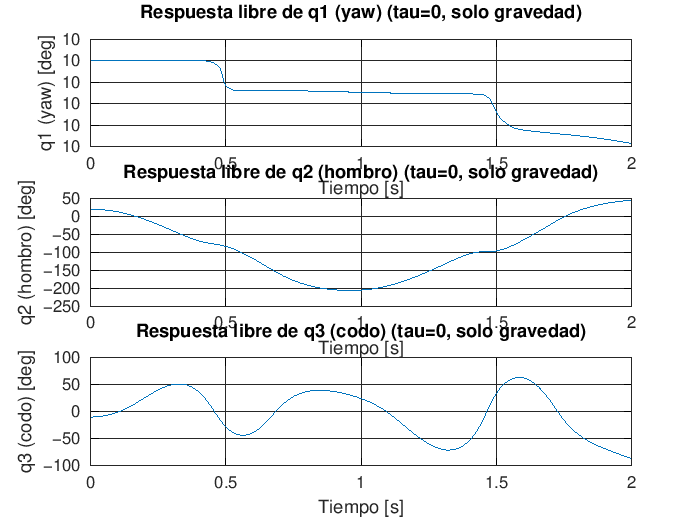
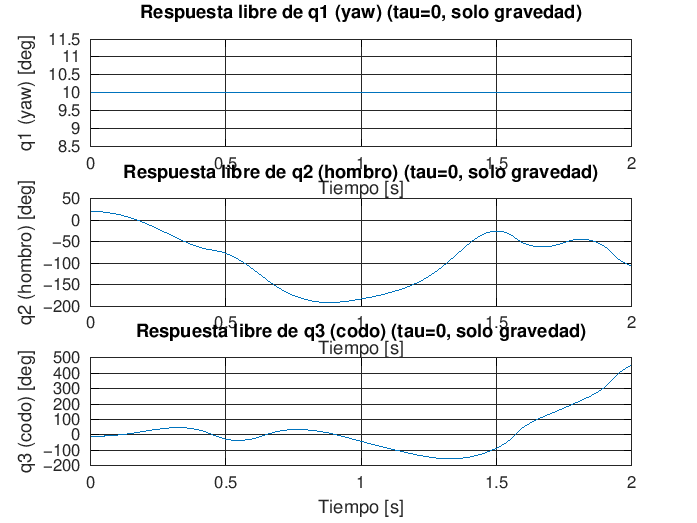
Maestria en IA - Trabajo Final Robotica - Seccion B - Grupo 2

diff --git a/01_codigo_final/robot3dof_TFinal_v2_dinamica_jacobianos.m b/01_codigo_final/robot3dof_TFinal_v2_dinamica_jacobianos.m
@@ -36,22 +36,30 @@
 % [P1] Paper, Pag. 5, Seccion 3: manipulador industrial de tres eslabones
 %      con tres juntas revolutas.
 % [P2] Paper, Pag. 6, Seccion 3.1 y Tabla 1: parametros DH del robot.
-% [P5] Paper, Pag. 8, Tabla 2: L1=0.15 m, L2=0.50 m, L3=0.50 m.
+% [P5] Paper, Pag. 8, Tabla 2 "List of parameters of robot manipulator":
+%      L1=0.15 m, L2=0.50 m, L3=0.50 m, m1=0.50 kg, m2=0.50 kg,
+%      m3=0.50 kg, g=9.81 m/s^2. TODOS estos siete valores son datos
+%      reportados explicitamente por el paper, no supuestos.
 %
 % -------------------------------------------------------------------------
-% SUPUESTOS FISICOS (el paper base NO reporta masas, centros de masa ni
-% inercias completas; todo lo declarado abajo es un supuesto de simulacion
-% que debe confirmarse con el docente, ver preguntas pendientes al final):
+% SUPUESTOS FISICOS
 %
-% 1) Masas por eslabon (m1, m2, m3): valores asumidos, del orden de un
-%    manipulador de mesa pequeno (kg). No provienen del paper.
+% La Tabla 2 del paper (Pag. 8, [P5]) reporta longitudes, masas y gravedad
+% de los tres eslabones (L1,L2,L3,m1,m2,m3,g). Esos siete valores se toman
+% tal cual del paper, no son supuestos.
 %
-% 2) Centros de masa (lc1, lc2, lc3): se asume que cada eslabon es
+% El paper NO reporta, en cambio, la posicion exacta del centro de masa de
+% cada eslabon ni el tensor de inercia completo (solo aparecen simbolos
+% genericos como lc2, lc3, r1 dentro de las ecuaciones de Lagrange (10)-
+% (12), sin valores numericos en la Tabla 2). Por eso, lo siguiente SI son
+% supuestos de simulacion, declarados y justificados:
+%
+% 1) Centros de masa (lc1, lc2, lc3): se asume que cada eslabon es
 %    aproximadamente uniforme, por lo que su centro de masa esta a la
 %    mitad de su longitud (lc_i = L_i/2). pc1 se ubica sobre el eje de la
 %    columna base (ver deduccion geometrica en la Seccion 3).
 %
-% 3) Tensores de inercia (I1, I2, I3): cada eslabon se aproxima como una
+% 2) Tensores de inercia (I1, I2, I3): cada eslabon se aproxima como una
 %    VARILLA DELGADA UNIFORME (momento axial ~0, momentos transversales
 %    m*L^2/12), expresados en la base ortonormal del propio marco DH del
 %    eslabon (frame i), tal como exige la formula
@@ -63,11 +71,9 @@
 %    evitar singularidades numericas; fisicamente equivale a "varilla
 %    delgada ideal".
 %
-% 4) La gravedad robot.g = 9.81 m/s^2 (estandar).
-%
-% Estas asunciones deben declararse explicitamente en el informe como
-% "supuestos de simulacion", diferenciandolas de los parametros
-% geometricos L1,L2,L3 que si provienen del paper base.
+% Estos dos supuestos (centros de masa e inercia detallada) deben
+% declararse explicitamente en el informe, diferenciandolos de L1,L2,L3,
+% m1,m2,m3,g, que si provienen directamente de la Tabla 2 del paper base.
 % -------------------------------------------------------------------------
 
 clc; clear; close all;
@@ -76,9 +82,10 @@ clc; clear; close all;
 % 1. PARAMETROS GEOMETRICOS Y FISICOS DEL ROBOT
 % Objetivo: centralizar en robot.* toda constante geometrica/fisica usada
 %           por la cinematica y la dinamica.
-% Fuente/justificacion: geometria L1,L2,L3 tomada del paper base [P5].
-%           Masas, centros de masa e inercias son supuestos de simulacion
-%           documentados arriba (el paper no los reporta completos).
+% Fuente/justificacion: L1,L2,L3,m1,m2,m3,g tomados de la Tabla 2 del paper
+%           base [P5] (dato reportado, no supuesto). Centros de masa e
+%           inercias son supuestos de simulacion documentados arriba (el
+%           paper no reporta sus valores numericos).
 % Resultado esperado: estructura "robot" lista para toda la derivacion
 %           dinamica de este archivo.
 %% ================================================================
@@ -86,18 +93,19 @@ robot.L1 = 0.15;        % altura/base [m]                          [P5]
 robot.L2 = 0.50;        % longitud eslabon 2 [m]                   [P5]
 robot.L3 = 0.50;        % longitud eslabon 3 [m]                   [P5]
 
-% Supuesto para simulacion: el paper base no reporta masa/inercia completa.
-robot.m1 = 2.00;        % masa eslabon 1 (columna base) [kg]
-robot.m2 = 1.50;        % masa eslabon 2 [kg]
-robot.m3 = 1.00;        % masa eslabon 3 [kg]
+% Dato del paper (Tabla 2, Pag. 8, [P5]): "Mass of link 1/2/3" = 0.5 kg cada uno.
+robot.m1 = 0.50;        % masa eslabon 1 (columna base) [kg]       [P5]
+robot.m2 = 0.50;        % masa eslabon 2 [kg]                      [P5]
+robot.m3 = 0.50;        % masa eslabon 3 [kg]                      [P5]
 
+% Supuesto de simulacion: el paper no reporta el valor numerico de lc_i.
 robot.lc1 = robot.L1/2; % centro de masa eslabon 1 [m]
 robot.lc2 = robot.L2/2; % centro de masa eslabon 2 [m]
 robot.lc3 = robot.L3/2; % centro de masa eslabon 3 [m]
 
-robot.g  = 9.81;        % gravedad [m/s^2]
+robot.g  = 9.81;        % gravedad [m/s^2]                         [P5]
 
-% Tensores de inercia por eslabon (varilla delgada, ver supuesto 3 arriba).
+% Tensores de inercia por eslabon (varilla delgada, ver supuesto 2 arriba).
 % Expresados en el marco local i: eje 1 = axial (a lo largo del eslabon),
 % ejes 2,3 = transversales (m*L^2/12). Para el eslabon 1, el eje AXIAL
 % corresponde al eje local 2 (y1), no al eje local 1, porque la torsion
@@ -112,7 +120,7 @@ fprintf('============================================================\n');
 fprintf(' ROBOT ANTROPOMORFICO 3GDL - v2: DINAMICA POR JACOBIANOS\n');
 fprintf('============================================================\n');
 fprintf('Geometria (paper base): L1=%.2f m, L2=%.2f m, L3=%.2f m\n', robot.L1, robot.L2, robot.L3);
-fprintf('Masas asumidas: m1=%.2f, m2=%.2f, m3=%.2f kg\n', robot.m1, robot.m2, robot.m3);
+fprintf('Masas (Tabla 2 del paper): m1=%.2f, m2=%.2f, m3=%.2f kg\n', robot.m1, robot.m2, robot.m3);
 fprintf('Metodo dinamico: Jacobianos lineales/angulares + Christoffel (NO Lagrange).\n\n');
 
 %% ================================================================

diff --git a/01_codigo_final/crear_modelo_simulink_robot3gdl.m b/01_codigo_final/crear_modelo_simulink_robot3gdl.m
@@ -43,13 +43,14 @@ model_name = 'Robot3GDL_Control_Final';
 %% ================================================================
 % 1. PARAMETROS DEL ROBOT (identicos a v2_dinamica_jacobianos.m)
 % Objetivo: tener robot.* disponible de forma independiente en este script.
-% Fuente/justificacion: mismos supuestos fisicos documentados en
-%           robot3dof_TFinal_v2_dinamica_jacobianos.m (varilla delgada,
-%           masas asumidas, geometria del paper base).
+% Fuente/justificacion: L1,L2,L3,m1,m2,m3,g identicos a la Tabla 2 del
+%           paper base (dato reportado); centros de masa e inercias son
+%           supuestos de simulacion, documentados en
+%           robot3dof_TFinal_v2_dinamica_jacobianos.m (varilla delgada).
 % Resultado esperado: estructura "robot" identica a la de v2.
 %% ================================================================
 robot.L1 = 0.15; robot.L2 = 0.50; robot.L3 = 0.50;
-robot.m1 = 2.00; robot.m2 = 1.50; robot.m3 = 1.00;
+robot.m1 = 0.50; robot.m2 = 0.50; robot.m3 = 0.50;
 robot.lc1 = robot.L1/2; robot.lc2 = robot.L2/2; robot.lc3 = robot.L3/2;
 robot.g = 9.81;
 
@@ -140,7 +141,7 @@ if ~exist(blocks_dir, 'dir')
 end
 
 write_mlfb_planta(blocks_dir, robot);
-write_mlfb_pid_nolineal(blocks_dir);
+write_mlfb_pid_nolineal(blocks_dir, robot);
 write_mlfb_pd_precomp(blocks_dir, robot);
 write_mlfb_par_calculado(blocks_dir, robot);
 
@@ -205,7 +206,7 @@ function write_mlfb_planta(blocks_dir, robot)
     fclose(fid);
 end
 
-function write_mlfb_pid_nolineal(blocks_dir)
+function write_mlfb_pid_nolineal(blocks_dir, robot)
     fid = fopen(fullfile(blocks_dir, 'mlfb_pid_nolineal.m'), 'w');
     fprintf(fid, '%s\n', '%% BLOQUE MATLAB FUNCTION: Control PID no lineal');
     fprintf(fid, '%s\n', '% Entrada : q, qdot, qd, qd_dot, eint (todos 3x1), Kp,Kd,Ki (3x3 diag)');
@@ -214,7 +215,8 @@ function write_mlfb_pid_nolineal(blocks_dir)
     fprintf(fid, '%s\n\n', '% Simulink ANTES de este bloque, no dentro de el (ver guia).');
     fprintf(fid, 'function tau = mlfb_pid_nolineal(q, qdot, qd, qd_dot, eint, Kp, Kd, Ki)\n');
     fprintf(fid, '    %% Parametros de gravedad (identicos a robot3dof_TFinal_v2_dinamica_jacobianos.m)\n');
-    fprintf(fid, '    L2 = 0.50; lc2 = 0.25; lc3 = 0.25; m2 = 1.50; m3 = 1.00; g = 9.81;\n');
+    fprintf(fid, '    L2 = %.6g; lc2 = %.6g; lc3 = %.6g; m2 = %.6g; m3 = %.6g; g = %.6g;\n', ...
+        robot.L2, robot.lc2, robot.lc3, robot.m2, robot.m3, robot.g);
     fprintf(fid, '    e = qd - q;\n');
     fprintf(fid, '    edot = qd_dot - qdot;\n');
     fprintf(fid, '    q2 = q(2); q3 = q(3);\n');

diff --git a/README.md b/README.md
@@ -62,46 +62,56 @@ G(q)      = d/dq [ Σ_i m_i · g · pc_i,z(q) ]
 Ambas implementaciones coinciden con un error del orden de `1e-10` en el
 punto de prueba de la Sección 2.3.
 
-### 2.2. Supuestos físicos
+### 2.2. Parámetros del paper y supuestos físicos
 
-El paper base no reporta masas, centros de masa ni inercias completas.
-Los valores asumidos se documentan en el encabezado del archivo:
+La Tabla 2 del paper base (pág. 8, "List of parameters of robot manipulator")
+reporta explícitamente longitudes, masas y gravedad:
+
+| Parámetro | Valor | Fuente |
+|---|---|---|
+| `L1, L2, L3` | 0.15, 0.50, 0.50 m | Tabla 2 del paper (dato reportado) |
+| `m1, m2, m3` | 0.50, 0.50, 0.50 kg | Tabla 2 del paper (dato reportado) |
+| `g` | 9.81 m/s² | Tabla 2 del paper (dato reportado) |
+
+El paper no reporta el valor numérico del centro de masa ni el tensor de
+inercia completo de cada eslabón (solo aparecen símbolos genéricos como
+`lc2`, `lc3`, `r1` dentro de las ecuaciones de Lagrange (10)-(12), sin
+valores en la Tabla 2). Estos dos parámetros sí son supuestos de
+simulación, documentados en el encabezado del archivo:
 
 | Parámetro | Valor asumido | Justificación |
 |---|---|---|
-| `m1, m2, m3` | 2.00, 1.50, 1.00 kg | Orden de magnitud típico de un manipulador de mesa |
 | `lc1, lc2, lc3` | `L_i / 2` | Eslabón uniforme → centro de masa a mitad de longitud |
 | `I1, I2, I3` | Varilla delgada (`m·L²/12` transversal, ~0 axial) | Aproximación estándar para eslabones esbeltos; el eje "axial" de cada tensor se dedujo de la geometría DH (no arbitrario, ver comentarios en el código) |
-| `g` | 9.81 m/s² | Estándar |
 
-Estos supuestos corresponden a las preguntas 1 y 2 de la Sección 6.
+Estos dos supuestos corresponden a la pregunta 1 de la Sección 6.
 
 ### 2.3. Resultados de validación numérica
 
 Punto de prueba: `q = [30°, 40°, −25°]`, `qdot = [5°, −3°, 4°]/s`.
 
-**M(q)** — simétrica, autovalores `[0.0248, 0.4829, 0.7435]` (definida positiva):
+**M(q)** — simétrica, autovalores `[0.0106, 0.2293, 0.3527]` (definida positiva):
 
 ```text
- 0.4829   0.0000   0.0000
- 0.0000   0.6849   0.1966
- 0.0000   0.1966   0.0833
+ 0.2293   0.0000   0.0000
+ 0.0000   0.3216   0.0983
+ 0.0000   0.0983   0.0417
 ```
 
 **C(q,qdot):**
 
 ```text
- 0.0129  -0.0269  -0.0040
- 0.0269   0.0037   0.0009
- 0.0040   0.0028   0.0000
+ 0.0059  -0.0125  -0.0020
+ 0.0125   0.0018   0.0005
+ 0.0020   0.0014   0.0000
 ```
 
 **G(q)** — `G1 = 0` exactamente (el giro de base no cambia energía potencial):
 
 ```text
  0.0000
- 8.9445
- 2.3689
+ 4.0026
+ 1.1845
 ```
 
 La derivación simbólica (Symbolic Math Toolbox) y la implementación
@@ -168,10 +178,11 @@ para el armado manual, documentado en
 
 | Viene del parcial (sin modificar) | Se agrega para el trabajo final |
 |---|---|
-| `L1, L2, L3` | Masas, centros de masa, tensores de inercia (supuestos) |
+| `L1, L2, L3` | `m1, m2, m3`, `g` (Tabla 2 del paper, no extraídos en el parcial) |
 | `fk_3dof`, `ik_3dof`, `jacobian_3dof` | `pc_i`, `Jv_i`, `Jw_i` |
 | Análisis de singularidades | `M(q)`, `C(q,qdot)`, `G(q)` por Jacobianos + Christoffel |
 | Control cinemático por pseudoinversa | 3 controladores dinámicos (PID no lineal, PD precomp., par calculado) |
+| — | Centros de masa y tensores de inercia (supuestos, paper no los reporta) |
 | — | Modelo Simulink (`Robot3GDL_Control_Final.slx`) |
 | — | Planeación autónoma con obstáculos (A*, pendiente — Sección 6) |
 
@@ -224,8 +235,9 @@ Criterios de aceptación por paso:
 
 ## 6. Preguntas pendientes para el docente
 
-1. El paper base no reporta masas, centros de masa ni inercias completas.
-   ¿Se aceptan como supuestos de simulación, declarados explícitamente?
+1. El paper base reporta masas y gravedad (Tabla 2), pero no reporta el
+   centro de masa ni el tensor de inercia completo de cada eslabón. ¿Se
+   aceptan como supuestos de simulación, declarados explícitamente?
 2. Los tensores de inercia se modelan como varilla delgada uniforme
    (momento axial ≈ 0, transversal `m·L²/12`). ¿Es aceptable esta
    aproximación, o se espera un modelo más detallado (p. ej. cilindro